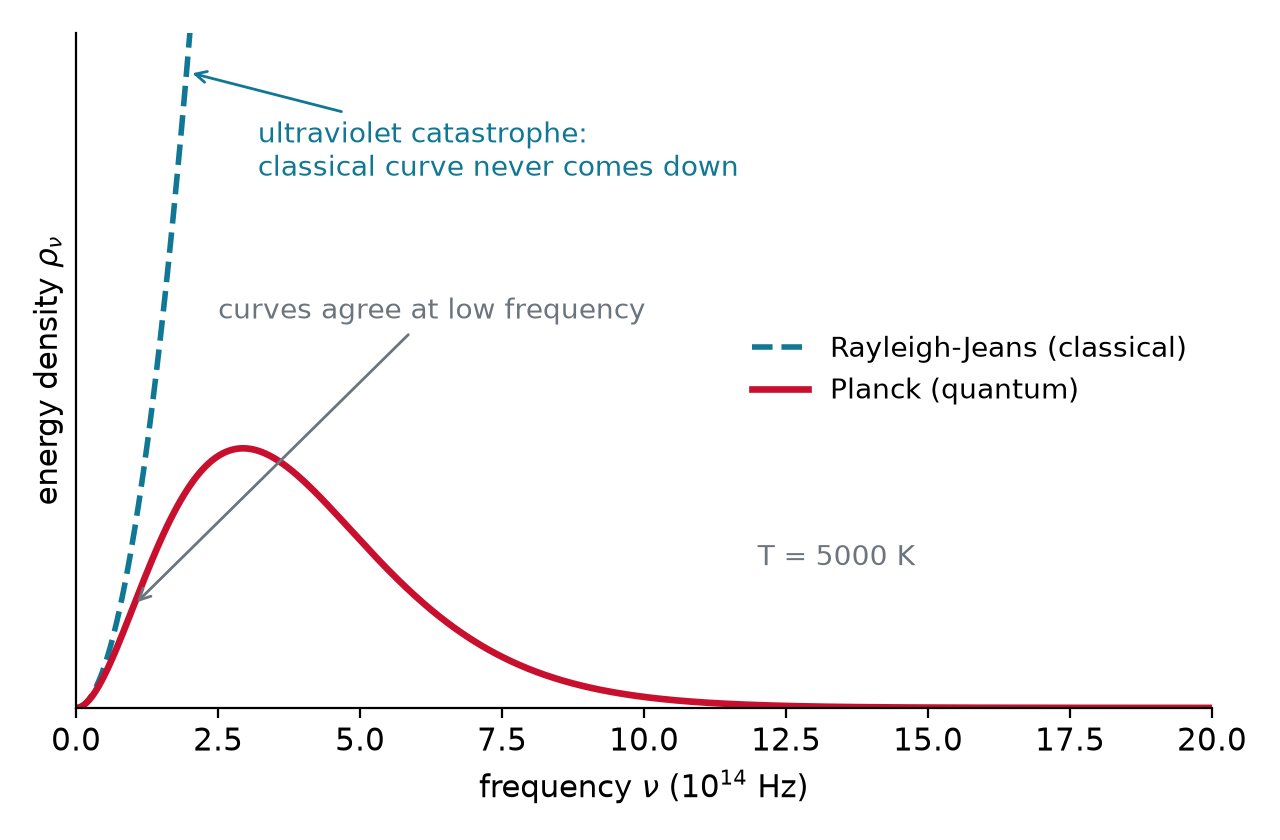
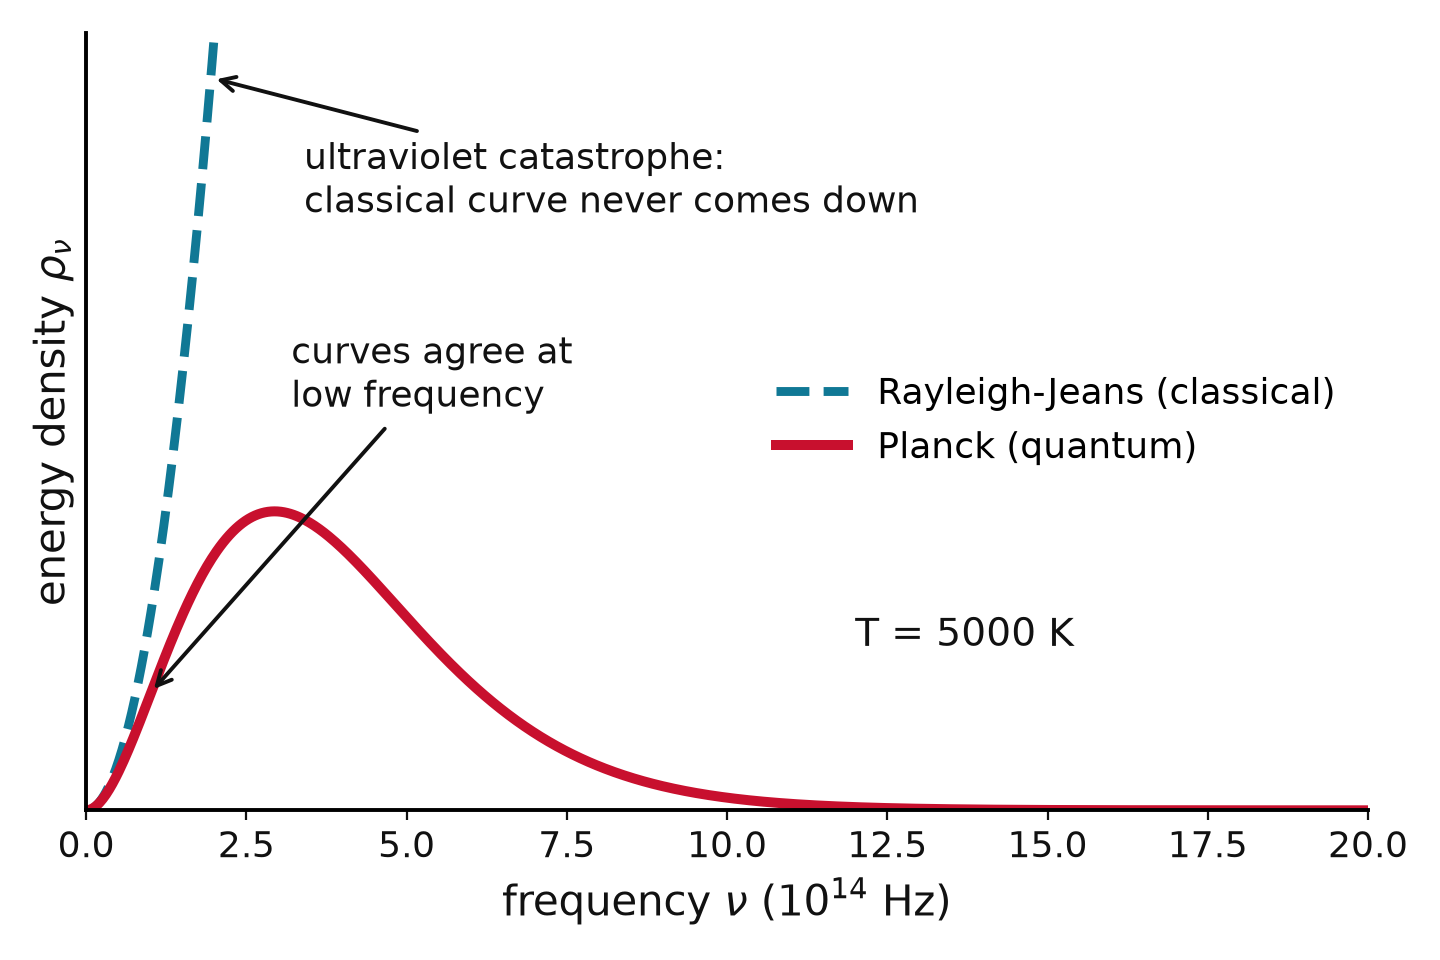
'polish figs'

diff --git a/scripts/make_ch01_figures.py b/scripts/make_ch01_figures.py
@@ -28,22 +28,25 @@ def schematic_axes(ax, xlabel, ylabel):
 
 # ---------------------------------------------------------------- 1. UV catastrophe
 h, c, kB = 6.626e-34, 2.998e8, 1.381e-23
+BLACK = "#111111"
 T = 5000
 nu = np.linspace(1e12, 2.0e15, 800)
 planck = 8 * np.pi * h * nu**3 / c**3 / np.expm1(h * nu / (kB * T))
 rj = 8 * np.pi * nu**2 * kB * T / c**3
-fig, ax = plt.subplots(figsize=(6.4, 4.2))
-ax.plot(nu / 1e14, rj, "--", color=TEAL, lw=2, label="Rayleigh-Jeans (classical)")
-ax.plot(nu / 1e14, planck, color=CARDINAL, lw=2.4, label="Planck (quantum)")
+fig, ax = plt.subplots(figsize=(7.2, 4.8))
+ax.plot(nu / 1e14, rj, "--", color=TEAL, lw=3.2, label="Rayleigh-Jeans (classical)")
+ax.plot(nu / 1e14, planck, color=CARDINAL, lw=3.6, label="Planck (quantum)")
 ax.set_ylim(0, 2.6 * planck.max()); ax.set_xlim(0, 20)
-ax.set_xlabel(r"frequency $\nu$ (10$^{14}$ Hz)"); ax.set_ylabel(r"energy density $\rho_\nu$")
-ax.set_yticks([])
-ax.annotate("ultraviolet catastrophe:\nclassical curve never comes down", xy=(1.95, 2.45 * planck.max()), xytext=(3.2, 2.05 * planck.max()),
-            fontsize=10, color=TEAL, arrowprops=dict(arrowstyle="->", color=TEAL))
-ax.annotate("curves agree at low frequency", xy=(1.0, planck[np.argmin(abs(nu / 1e14 - 1.0))]), xytext=(2.5, 1.5 * planck.max()),
-            fontsize=10, color=GRAY, arrowprops=dict(arrowstyle="->", color=GRAY))
-ax.text(12, 0.55 * planck.max(), f"T = {T} K", fontsize=10, color=GRAY)
-ax.legend(frameon=False, loc="center right", fontsize=10)
+ax.set_xlabel(r"frequency $\nu$ (10$^{14}$ Hz)", fontsize=15, color=BLACK)
+ax.set_ylabel(r"energy density $\rho_\nu$", fontsize=15, color=BLACK)
+ax.set_yticks([]); ax.tick_params(axis="x", labelsize=13, colors=BLACK)
+for sp in ["left", "bottom"]: ax.spines[sp].set_linewidth(1.4)
+ax.annotate("ultraviolet catastrophe:\nclassical curve never comes down", xy=(1.95, 2.45 * planck.max()), xytext=(3.4, 2.0 * planck.max()),
+            fontsize=13, color=BLACK, arrowprops=dict(arrowstyle="->", color=BLACK, lw=1.4))
+ax.annotate("curves agree at\nlow frequency", xy=(1.0, planck[np.argmin(abs(nu / 1e14 - 1.0))]), xytext=(3.2, 1.35 * planck.max()),
+            fontsize=13, color=BLACK, arrowprops=dict(arrowstyle="->", color=BLACK, lw=1.4))
+ax.text(12, 0.55 * planck.max(), f"T = {T} K", fontsize=14, color=BLACK)
+ax.legend(frameon=False, loc="center right", fontsize=13)
 fig.tight_layout(); fig.savefig(f"{OUT}/uv_catastrophe.png", dpi=200)
 
 # ---------------------------------------------------------------- 2. Planck curve family
@@ -67,31 +70,55 @@ ax.set_xlabel("wavelength (nm)"); ax.set_ylabel(r"energy density $\rho_\lambda$"
 ax.legend(frameon=False, fontsize=9.5, loc="center right", title="temperature", title_fontsize=9.5)
 fig.tight_layout(); fig.savefig(f"{OUT}/planck_curves.png", dpi=200)
 
+# ---------------------------------------------------------------- 2b. Planck curve family vs frequency (tab twin of the wavelength plot)
+nu_f = np.linspace(1e12, 2.2e15, 1000)
+fig, ax = plt.subplots(figsize=(6.8, 4.2))
+peaks = []
+for i, Ti in enumerate(Ts):
+    rho = 8 * np.pi * h * nu_f**3 / c**3 / np.expm1(h * nu_f / (kB * Ti))
+    ax.plot(nu_f / 1e14, rho, color=HOT2COLD[i], lw=2.2, label=f"{Ti} K")
+    peaks.append((nu_f[np.argmax(rho)] / 1e14, rho.max()))
+px, py = zip(*peaks)
+ax.plot(px, py, ":", color=GRAY, lw=1.2)
+ax.annotate("Wien's law: peak moves to\nhigher frequency as T rises", xy=(px[-1], py[-1]), xytext=(px[-1] + 3.5, py[-1] * 0.95),
+            fontsize=9.5, color=GRAY, arrowprops=dict(arrowstyle="->", color=GRAY))
+ax.axvspan(c / 750e-9 / 1e14, c / 380e-9 / 1e14, color="gold", alpha=0.15)
+ax.text((c / 750e-9 + c / 380e-9) / 2e14, py[-1] * 1.04, "visible", ha="center", fontsize=9, color="darkgoldenrod")
+ax.set_xlim(0, 22); ax.set_ylim(0, py[-1] * 1.12); ax.set_yticks([])
+ax.set_xlabel(r"frequency $\nu$ (10$^{14}$ Hz)"); ax.set_ylabel(r"energy density $\rho_\nu$")
+ax.legend(frameon=False, fontsize=9.5, loc="center right", title="temperature", title_fontsize=9.5)
+fig.tight_layout(); fig.savefig(f"{OUT}/planck_curves_nu.png", dpi=200)
+
 # ---------------------------------------------------------------- 3. wave definitions
-fig, (a1, a2) = plt.subplots(1, 2, figsize=(11, 4.2), gridspec_kw={"width_ratios": [1, 1.1]})
+BLACK = "#111111"
+fig, (a1, a2) = plt.subplots(1, 2, figsize=(12, 4.6), gridspec_kw={"width_ratios": [1, 1.1]})
 x = np.linspace(0, 3, 600); A = 1.0
-a1.plot(x, A * np.sin(2 * np.pi * x), color=TEAL, lw=2.4)
-a1.axhline(0, color=GRAY, ls="--", lw=1)
-a1.annotate("", xy=(1.25, 1.3), xytext=(0.25, 1.3), arrowprops=dict(arrowstyle="<->", color=CARDINAL, lw=1.5))
-a1.text(0.75, 1.4, r"wavelength $\lambda$", ha="center", color=CARDINAL, fontsize=11)
-a1.annotate("", xy=(2.25, 1.0), xytext=(2.25, 0.0), arrowprops=dict(arrowstyle="<->", color=CARDINAL, lw=1.5))
-a1.text(2.33, 0.5, "amplitude", va="center", color=CARDINAL, fontsize=11)
-a1.text(0.25, 1.06, "peak", ha="center", fontsize=10, color="#333"); a1.text(0.75, -1.2, "trough", ha="center", fontsize=10, color="#333")
-a1.set_xlim(-0.05, 3.05); a1.set_ylim(-1.45, 1.7); a1.axis("off")
-a1.set_title("one wave: wavelength and amplitude", fontsize=11, color="#333")
-xs = np.linspace(0, 1, 800)
+a1.plot(x, A * np.sin(2 * np.pi * x), color=TEAL, lw=2.6)
+a1.axhline(0, color=BLACK, ls="--", lw=1)
+# peaks of sin(2 pi x) sit at x = 0.25, 1.25, 2.25
+a1.annotate("", xy=(1.25, 1.32), xytext=(0.25, 1.32), arrowprops=dict(arrowstyle="<->", color=BLACK, lw=1.6, shrinkA=0, shrinkB=0))
+a1.plot([0.25, 0.25], [1.0, 1.32], color=BLACK, lw=0.8, ls=":"); a1.plot([1.25, 1.25], [1.0, 1.32], color=BLACK, lw=0.8, ls=":")
+a1.text(0.75, 1.42, r"wavelength $\lambda$", ha="center", color=BLACK, fontsize=14)
+a1.annotate("", xy=(2.25, 1.0), xytext=(2.25, 0.0), arrowprops=dict(arrowstyle="<->", color=BLACK, lw=1.6, shrinkA=0, shrinkB=0))
+a1.text(2.33, 0.5, "amplitude", va="center", color=BLACK, fontsize=14)
+a1.text(1.36, 1.02, "peak", ha="left", fontsize=13, color=BLACK); a1.text(1.75, -1.2, "trough", ha="center", fontsize=13, color=BLACK)
+a1.set_xlim(-0.05, 3.05); a1.set_ylim(-1.45, 1.75); a1.axis("off")
+a1.set_title("one wave: wavelength and amplitude", fontsize=14, color=BLACK)
+xs = np.linspace(0, 1, 1200)
 for k, (nu_k, col) in enumerate(zip([4, 8, 16], [HOT2COLD[0], HOT2COLD[2], HOT2COLD[4]])):
-    y0 = -k * 2.6
-    a2.plot(xs, y0 + np.sin(2 * np.pi * nu_k * xs), color=col, lw=2.2)
-    a2.text(1.03, y0, rf"$\nu$ = {nu_k} Hz", va="center", fontsize=11, color=col)
+    y0 = -k * 2.7
+    a2.plot(xs, y0 + np.sin(2 * np.pi * nu_k * xs), color=col, lw=2.4)
+    a2.text(1.03, y0, rf"$\nu$ = {nu_k} Hz", va="center", fontsize=14, color=BLACK)
     lam_k = 1 / nu_k
-    a2.annotate("", xy=(0.5 + lam_k, y0 + 1.15), xytext=(0.5, y0 + 1.15), arrowprops=dict(arrowstyle="<->", color=GRAY, lw=1.2))
-    a2.text(0.5 + lam_k / 2, y0 + 1.3, rf"$\lambda_{k+1}$", ha="center", fontsize=10, color=GRAY)
-a2.axvline(0, color=GRAY, ls="--", lw=1); a2.axvline(1, color=GRAY, ls="--", lw=1)
-a2.annotate("", xy=(1, 1.9), xytext=(0, 1.9), arrowprops=dict(arrowstyle="->", color="#333", lw=1.2))
-a2.text(0.5, 2.05, "distance the wave travels in 1 second", ha="center", fontsize=10.5, color="#333")
-a2.set_xlim(-0.05, 1.32); a2.set_ylim(-6.6, 2.5); a2.axis("off")
-a2.set_title("same speed c, higher frequency means shorter wavelength", fontsize=11, color="#333")
+    x_peak = 1 / (4 * nu_k) + np.ceil((0.45 - 1 / (4 * nu_k)) * nu_k) / nu_k  # first peak past x = 0.45
+    a2.annotate("", xy=(x_peak + lam_k, y0 + 1.22), xytext=(x_peak, y0 + 1.22), arrowprops=dict(arrowstyle="<->", color=BLACK, lw=1.4, shrinkA=0, shrinkB=0))
+    a2.plot([x_peak, x_peak], [y0 + 1.0, y0 + 1.22], color=BLACK, lw=0.8, ls=":"); a2.plot([x_peak + lam_k, x_peak + lam_k], [y0 + 1.0, y0 + 1.22], color=BLACK, lw=0.8, ls=":")
+    a2.text(x_peak + lam_k / 2, y0 + 1.36, rf"$\lambda_{k+1}$", ha="center", fontsize=13, color=BLACK)
+a2.axvline(0, color=BLACK, ls="--", lw=1); a2.axvline(1, color=BLACK, ls="--", lw=1)
+a2.annotate("", xy=(1, 2.0), xytext=(0, 2.0), arrowprops=dict(arrowstyle="->", color=BLACK, lw=1.4))
+a2.text(0.5, 2.15, "distance the wave travels in 1 second", ha="center", fontsize=13, color=BLACK)
+a2.set_xlim(-0.05, 1.36); a2.set_ylim(-6.8, 2.7); a2.axis("off")
+a2.set_title("same speed c: higher frequency, shorter wavelength", fontsize=14, color=BLACK)
 fig.tight_layout(); fig.savefig(f"{OUT}/wave_definitions.png", dpi=200)
 
 # ---------------------------------------------------------------- 4. Bohr standing waves

diff --git a/ch01/02-the-need-for-quantization.md b/ch01/02-the-need-for-quantization.md
@@ -93,13 +93,30 @@ A black body is an idealized model, just like the ideal gas model in thermodynam
 - This model is called a black body because it absorbs every wavelength that hits its surface, therefore appearing as a perfectly black object. 
 - If an object has a color, it is because it reflects certain wavelengths of light, which are then detected by the retina of our eye. The distribution of wavelengths emitted by a black body is determined only by its temperature!
 
-:::{figure} ./images/planck_curves.png
+::::{tab-set}
+:::{tab-item} vs wavelength
+:sync: lam
+
+```{figure} ./images/planck_curves.png
 :label: fig-the-need-for-quantization-5
-:alt: EM
+:alt: Black body spectra versus wavelength for temperatures from 3000 K to 7000 K
 :width: 80%
 
-Black body spectra at increasing temperature, colored red to blue. Heating a material does three things: (1) the radiated intensity rises steeply; (2) the peak shifts to shorter wavelengths (higher frequencies), following the dotted Wien line; and (3) as the peak crosses the visible band the color changes from red to yellow to white to blue.
+Black body spectra versus wavelength at increasing temperature, colored red to blue. Heating a material does three things: (1) the radiated intensity rises steeply; (2) the peak shifts to shorter wavelengths, following the dotted Wien line; and (3) as the peak crosses the visible band the color changes from red to yellow to white to blue.
+```
 :::
+:::{tab-item} vs frequency
+:sync: nu
+
+```{figure} ./images/planck_curves_nu.png
+:label: fig-the-need-for-quantization-5nu
+:alt: Black body spectra versus frequency for temperatures from 3000 K to 7000 K
+:width: 80%
+
+The same spectra plotted against frequency, $\rho_\nu$ with $\nu = c/\lambda$. The peak now moves to higher frequency with temperature. Note that the peak frequency is not simply $c/\lambda_{max}$: converting a density per unit wavelength into a density per unit frequency brings in a factor $c/\nu^2$, which shifts where the maximum sits.
+```
+:::
+::::
 
 
 ### Ultraviolet catastrophe of classical mechanics
